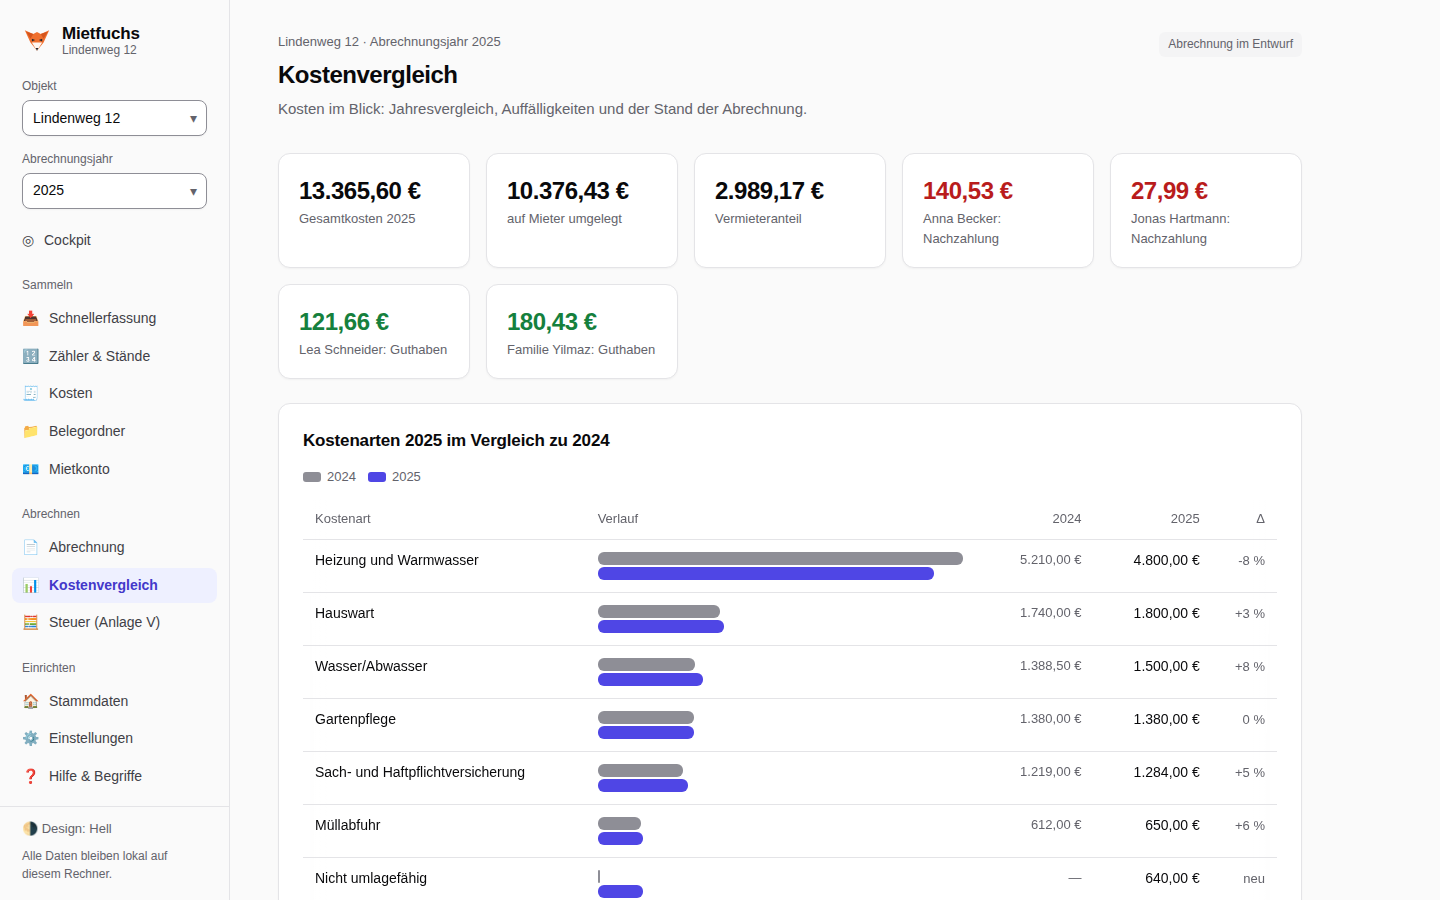
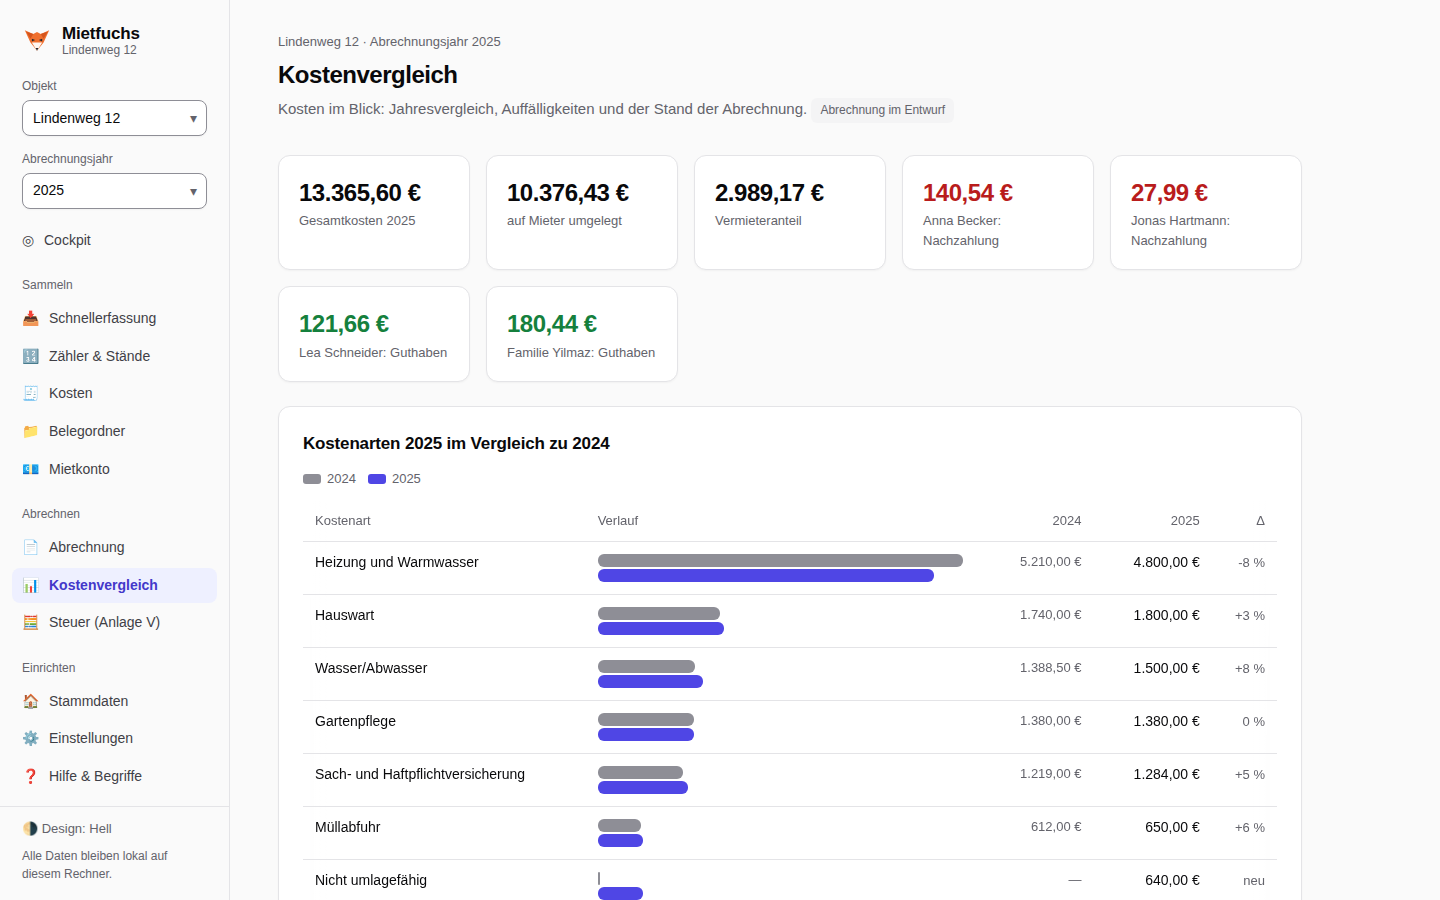
Schritt 8, Durchsicht: Kontextzeile gedruckt, Fokus bei erzwungenen Farben, Fuß der Seitenleiste scrollt mit (M15)
- S1: Die Kontextzeile wird mitgedruckt (Abrechnung und Steuer drucken ihren Seitenkopf weiter nicht).
- S2: Der Switcher zeigt seinen Fokus auch im Kontrastmodus (Umriss in transparent).
- S3/M15: Der Fuß der Seitenleiste ist nicht mehr angeheftet; bei 1440 x 900 sind Einstellungen und
  Hilfe auch mit langem Objektnamen frei, bei 1280 x 720 nach Scrollen, nie verdeckt.
- K2: Belegordner sagt bei abweichendem Rhythmus, dass nach dem Beginn des Zeitraums geordnet wird.
- K3: Der Posteingang verweist auf die Häkchen. K4: Stand der Abrechnung im Untertitel, gedruckt.
- K5: keine leere Zeile in der Schnellerfassung. K6: App nimmt propertyName. K7: Prüfung am Inhalt der
  Auswahlfelder in pageContext.test.tsx. K9: span statt div im label.

Refs #346
Refs #341

Claude-Session: https://claude.ai/code/session_01CpfxWFMq4CjsoL4V1Tpvqb

diff --git a/client/src/index.css b/client/src/index.css
@@ -139,13 +139,12 @@ body {
 /* ---------- Sidebar ---------- */
 /* Die Leiste steht am Fenster und wächst nicht mit der Seite (#142): Sonst lag ihr Fuß (Design,
    Beenden) auf langen Seiten erst nach langem Scrollen im Bild. Bei kleiner Fensterhöhe scrollt
-   sie selbst; die eigene Scrollleiste ist schmal, damit sie die Leiste nicht zerschneidet. Ein per
-   Tab fokussierter Eintrag rollt nicht unter den stehenden Fuß (gut 90 px hoch). */
+   sie selbst; die eigene Scrollleiste ist schmal, damit sie die Leiste nicht zerschneidet. */
 .sidebar {
   width: 230px; flex-shrink: 0; background: var(--sidebar); color: var(--sidebar-text);
   border-right: 1px solid var(--line); padding: max(var(--space-5), env(safe-area-inset-top)) var(--space-3) var(--space-5) max(var(--space-3), env(safe-area-inset-left));
   display: flex; flex-direction: column; gap: 2px; position: sticky; top: 0; height: 100vh; overflow-y: auto;
-  scrollbar-width: thin; scrollbar-color: var(--control-border) transparent; scroll-padding-bottom: 100px;
+  scrollbar-width: thin; scrollbar-color: var(--control-border) transparent;
 }
 .sidebar .logo {
   display: flex; align-items: center; gap: 10px; color: var(--text); font-weight: var(--weight-strong);
@@ -160,13 +159,11 @@ body {
 }
 .sidebar button:hover { background: var(--hover); color: var(--text); }
 .sidebar button.active, .sidebar button.active:hover { background: var(--accent-soft); color: var(--accent-strong); font-weight: var(--weight-strong); }
-/* Der Fuß bleibt unten in der Leiste stehen (#142): Ist das Fenster niedriger als die Navigation,
-   scrollt nur sie darüber hinweg. Er reicht über das Polster der Leiste bis an ihre Ränder, damit
-   keine Navigation unter ihm durchscheint. */
+/* Der Fuß steht unten in der Leiste (#142) und ist Teil der Scrollfläche (#341 M15): Angeheftet lag er bei 900 px
+   Höhe über „Einstellungen“ und „Hilfe & Begriffe“. Er reicht über das Polster der Leiste bis an ihre Ränder. */
 .sidebar .foot {
   margin: auto calc(-1 * var(--space-3)) calc(-1 * var(--space-5)); padding: var(--space-3) 22px calc(var(--space-4) + env(safe-area-inset-bottom));
-  font-size: var(--text-xs); color: var(--muted); position: sticky; bottom: calc(-1 * var(--space-5));
-  background: var(--sidebar); border-top: 1px solid var(--line);
+  font-size: var(--text-xs); color: var(--muted); background: var(--sidebar); border-top: 1px solid var(--line);
 }
 .sidebar .foot .theme-toggle {
   all: unset; cursor: pointer; display: block; margin-bottom: var(--space-2); color: var(--muted); font-size: var(--text-s);
@@ -463,7 +460,7 @@ dialog.menu-sheet > .sidebar button:not(.sheet-close) { min-height: var(--target
 .page-head-text .sub { margin: 0; }
 .page-head-actions { display: flex; gap: 10px; align-items: center; flex-shrink: 0; }
 /* Das gewählte Objekt über dem Titel, ab zwei Objekten (#157): kleine Marke in Indigo */
-/* Kontextzeile (PageHeader.tsx): Objekt und Zeitraum, nur Anzeige; am Handy nennt sie der angeheftete Kopf (siehe unten) */
+/* Kontextzeile (PageHeader.tsx): Objekt und Zeitraum, nur Anzeige, auch gedruckt; am Bildschirm des Handys nennt sie der angeheftete Kopf (siehe unten) */
 .page-context { margin: 0 0 var(--space-1); color: var(--muted); font-size: var(--text-s); font-weight: var(--weight-medium); overflow-wrap: anywhere; }
 /* Hinweis nach dem Wechsel in ein leeres Objekt (#157) */
 .property-notice { display: flex; flex-direction: column; gap: 10px; margin: 0 0 18px; font-size: var(--text-m); }

diff --git a/client/src/uiRules.test.ts b/client/src/uiRules.test.ts
@@ -536,6 +536,9 @@ test('S22: Navigationseinträge stehen nur in nav.ts', () => {
 // - das Kalenderjahr von Mietkonto und Steuer bei abweichendem Zeitraum, nur über `CalendarYearSelect`;
 // - die Heizperiode (HeatingPeriodSelect), eine Eigenschaft der Heizanlage und keine Wahl des Zeitraums;
 // - die Eigenschaften eines Belegs bzw. einer Position, die unten mit Beschriftung stehen.
+// Grenze: Erkannt wird am Quelltext, also an den üblichen Namen; ein `<select>` mit umbenannten Variablen ginge
+// hier durch. Das fängt pageContext.test.tsx am Verhalten: Dort darf kein Auswahlfeld im Inhalt einer Seite
+// Jahreszahlen, Zeiträume oder Objektnamen anbieten (außer „Kalenderjahr“).
 const SIDEBAR_SWITCHERS: Array<[RegExp, Set<string>]> = [
   [/<(?:PeriodSelect|PeriodSelectView|PropertySwitcher)\b/, new Set(['./App.tsx', './components/PeriodSelect.tsx'])],
   [/<Switcher\b/, new Set(['./components/PeriodSelect.tsx', './property.tsx'])],
@@ -550,6 +553,24 @@ const S18_EXCEPTIONS: Array<[file: string, label: string, reason: string]> = [
   ['./components/CostPeriodFields.tsx', 'value={form.taxYear}', 'Jahr der Zahlung (Steuer) einer Kostenposition im Formular'],
 ]
 const periodSelects = (src: string): string[] => [...src.matchAll(/<select\b[\s\S]*?<\/select>/g)].map((m) => m[0]).filter((s) => PERIOD_OR_PROPERTY.test(s))
+// Durchsicht zu Schritt 8, S2: Im Modus erzwungener Farben (Windows-Kontrast) entfernt der Browser `box-shadow` und
+// setzt die Randfarben; der Fokus des unsichtbaren Auswahlfelds am Text wäre dann nicht zu sehen. Ein Umriss in
+// `transparent` zeichnet der Browser dort in der Systemfarbe.
+test('der Switcher zeigt seinen Fokus auch bei erzwungenen Farben', () => {
+  const block = twCss.match(/@utility switcher \{([\s\S]*?)\n\}/)?.[1] ?? ''
+  const focus = block.match(/:focus-within[^{]*\{([^}]*)\}/)?.[1] ?? ''
+  expect(focus).toMatch(/box-shadow/)
+  expect(focus).toMatch(/outline:\s*2px solid transparent/)
+})
+
+// M15 (#341, Spezifikation Abschnitt 2): Der Fuß der Seitenleiste ist Teil der Scrollfläche. Angeheftet lag er bei
+// 900 px Höhe über „Einstellungen“, und „Hilfe & Begriffe“ war hinter ihm.
+test('M15: der Fuß der Seitenleiste ist nicht angeheftet', () => {
+  const foot = cssRules(css).find((r) => r.selector === '.sidebar .foot')
+  expect(foot, '.sidebar .foot fehlt').toBeDefined()
+  expect(foot?.body).not.toMatch(/position:\s*sticky/)
+})
+
 test('S18: Objekt und Abrechnungszeitraum nur in der Seitenleiste', () => {
   // Probe des Prüfers: die frühere Auswahl im Belegordner und die Jahresauswahl, nicht aber ein anderes Feld
   expect(periodSelects('<select value={a} onChange={(e) => setA(e.target.value)}>{properties.map((p) => <option key={p.id} />)}</select>')).toHaveLength(1)

diff --git a/client/src/pages/Belege.tsx b/client/src/pages/Belege.tsx
@@ -288,7 +288,7 @@ function InboxPlacement({ upload, properties, yearOptions, onSave, children }: {
 export default function Belege({ renderThumb = renderThumbnail, onEvaluate, onContinue, onOpenItem, makeTenantFolder = downloadTenantFolder }: Props) {
   const toast = useToast()
   const confirm = useConfirm()
-  const { year: currentYear, calendarYearOptions } = usePeriod()
+  const { year: currentYear, calendarYearOptions, calendar } = usePeriod()
   const { property, properties } = useProperty()
   const [uploads, setUploads] = useState<UploadEntry[]>([])
   const [loadedItems, setLoadedItems] = useState<CostItem[]>([])
@@ -655,6 +655,10 @@ export default function Belege({ renderThumb = renderThumbnail, onEvaluate, onCo
             />
           </label>
         </div>
+        {/* Durchsicht zu Schritt 8, K2: Der Ordner ordnet nach dem Jahr, in dem der Zeitraum einer Position beginnt
+            (receipts.ts, ebenso Register und Belegabdeckung). Bei einem anderen Rhythmus sagt der Satz das, denn
+            die Kontextzeile nennt den Zeitraum; vor einem Wechsel des Rhythmus können zwei Zeiträume im selben Jahr beginnen. */}
+        {!calendar && !allYears && <p className="muted">Gezeigt sind die Positionen der Abrechnungszeiträume, die {currentYear} beginnen.</p>}
       </div>
 
       <div
@@ -681,7 +685,7 @@ export default function Belege({ renderThumb = renderThumbnail, onEvaluate, onCo
         <p className="muted">
           Belege, die an keiner Kostenposition hängen. Ziehen Sie neue Belege hierher oder laden Sie mehrere auf einmal hoch;
           danach ordnen Sie jeden einer Position zu oder lassen ihn per KI auswerten.
-          {inbox.elsewhere > 0 && ` ${inbox.elsewhere} weitere ${inbox.elsewhere === 1 ? 'ist' : 'sind'} einem anderen Objekt oder Jahr zugedacht.`}
+          {inbox.elsewhere > 0 && ` ${inbox.elsewhere} weitere ${inbox.elsewhere === 1 ? 'ist' : 'sind'} einem anderen Objekt oder Jahr zugedacht; Sie sehen ${inbox.elsewhere === 1 ? 'ihn' : 'sie'} mit ${properties.length > 1 ? '„Belege aller Objekte zeigen“ oder ' : ''}„Belege aller Jahre zeigen“.`}
         </p>
         {inbox.here.length > 0 && <ul className="receipt-list">{inbox.here.map(renderCard)}</ul>}
       </div>

diff --git a/client/src/pageContext.test.tsx b/client/src/pageContext.test.tsx
@@ -75,6 +75,34 @@ test('jede Seite zeigt Objekt und Abrechnungsjahr an und wählt sie nicht noch e
   }
 })
 
+// Durchsicht K7: Erkannt am Inhalt, nicht am Namen der Variablen. Kein Auswahlfeld im Inhalt einer Seite bietet
+// Jahreszahlen, Zeiträume oder die Objekte an, außer dem Kalenderjahr von Mietkonto und Steuer.
+test('kein Auswahlfeld im Inhalt bietet Jahre, Zeiträume oder Objekte an', async () => {
+  properties = [...properties, objekt('objekt-3', 'Haus C')]
+  render(<App />)
+  await screen.findByLabelText('Objekt wählen', {}, SLOW)
+  const names = properties.map((p) => p.name)
+  for (const [nav, heading] of PAGES) {
+    await go(nav, heading)
+    const main = screen.getByRole('main')
+    const offending = within(main).queryAllByRole('combobox').filter((s) => {
+      const texts = [...(s as HTMLSelectElement).options].map((o) => o.text.trim()).filter((t) => t !== '')
+      const yearsOrNames = texts.filter((t) => /^\d{4}(?:\/\d{4})?$/.test(t) || names.includes(t))
+      return yearsOrNames.length >= 2 && s.getAttribute('aria-label') !== 'Kalenderjahr'
+    })
+    expect(offending.map((s) => s.getAttribute('aria-label') ?? s.closest('label')?.textContent), String(nav)).toEqual([])
+  }
+})
+
+// Durchsicht S1: Gedruckt nennt der Seitenkopf weiter, für welches Objekt und welches Jahr die Seite gilt.
+test('die Kontextzeile wird mitgedruckt', async () => {
+  render(<App />)
+  await screen.findByLabelText('Objekt wählen', {}, SLOW)
+  await go(/Kostenvergleich/, /^Kostenvergleich/)
+  const line = screen.getByTestId('page-context')
+  expect(line.closest('.no-print')).toBeNull()
+})
+
 test('ein Wechsel in der Seitenleiste stellt die Seite auf Objekt und Jahr um', async () => {
   render(<App />)
   await screen.findByLabelText('Objekt wählen', {}, SLOW)

diff --git a/client/src/tw.css b/client/src/tw.css
@@ -165,15 +165,16 @@
   display: flex;
   flex-direction: column;
   gap: --spacing(1);
-  & > span {
+  & > span:first-child {
     font-size: var(--text-xs);
     font-weight: var(--weight-medium);
     color: var(--muted);
   }
-  & > div {
+  & > span:last-child {
+    display: block;
     position: relative;
   }
-  & > div > span {
+  & > span:last-child > span {
     display: flex;
     align-items: center;
     box-sizing: border-box;
@@ -191,7 +192,7 @@
     overflow-wrap: break-word;
     hyphens: auto;
   }
-  & > div > span::after {
+  & > span:last-child > span::after {
     content: "▾";
     position: absolute;
     right: --spacing(2.5);
@@ -199,7 +200,7 @@
     transform: translateY(-50%);
     color: var(--muted);
   }
-  & > div > select {
+  & > span:last-child > select {
     position: absolute;
     inset: 0;
     width: 100%;
@@ -208,9 +209,13 @@
     opacity: 0;
     cursor: pointer;
   }
-  & > div:focus-within > span {
+  /* Der Umriss in `transparent` ist sonst unsichtbar; bei erzwungenen Farben (Windows-Kontrast), die `box-shadow`
+     entfernen, zeichnet der Browser ihn in der Systemfarbe (Durchsicht zu Schritt 8, S2). */
+  & > span:last-child:focus-within > span {
     border-color: var(--accent);
     box-shadow: 0 0 0 3px var(--ring);
+    outline: 2px solid transparent;
+    outline-offset: 2px;
   }
 }
 

diff --git a/client/src/components/PageHeader.tsx b/client/src/components/PageHeader.tsx
@@ -8,7 +8,8 @@ import { pageContextLine, type PageContextKind } from '../propertyView'
 //
 // Die Kontextzeile (#346 Schritt 8, M13) nennt Objekt und Abrechnungszeitraum, in denen die Seite steht,
 // „Lindenweg 12 · Abrechnungsjahr 2025“. Sie ist nur Anzeige: Gewählt wird beides in der Seitenleiste bzw. im
-// Menüblatt (Wächter S18). Am Handy steht dieselbe Angabe schon im angehefteten Kopf, dort entfällt sie (index.css).
+// Menüblatt (Wächter S18). Am Handy nennt der angeheftete Kopf Objekt und Zeitraum, dort entfällt sie auf dem
+// Bildschirm (index.css). Gedruckt wird sie, damit das Papier sagt, für welches Objekt und Jahr es gilt.
 // Seit #157 nennt der Seitenkopf das Objekt; vorher sah ein leeres neues Objekt aus wie ein verlorener Bestand.
 export default function PageHeader({
   title,
@@ -28,7 +29,7 @@ export default function PageHeader({
   return (
     <div className="page-head">
       <div className="page-head-text">
-        {line && <p className="page-context no-print" data-testid="page-context">{line}</p>}
+        {line && <p className="page-context" data-testid="page-context">{line}</p>}
         <h1>{title}</h1>
         {subtitle && <p className="sub">{subtitle}</p>}
       </div>

diff --git a/client/src/pages/Uebersicht.tsx b/client/src/pages/Uebersicht.tsx
@@ -79,14 +79,16 @@ export default function Uebersicht({ onNavigate }: Props) {
 
   return (
     <>
-      {/* Der Zeitraum steht in der Kontextzeile und wird in der Seitenleiste gewählt (#346 Schritt 8); hier
-          bleibt nur der Stand der Abrechnung. */}
+      {/* Der Zeitraum steht in der Kontextzeile und wird in der Seitenleiste gewählt (#346 Schritt 8); der Stand der
+          Abrechnung steht im Untertitel, damit er mitgedruckt wird. */}
       <PageHeader
         title="Kostenvergleich"
-        subtitle="Kosten im Blick: Jahresvergleich, Auffälligkeiten und der Stand der Abrechnung."
-        actions={settlement?.closed
-          ? <span className="badge green">Abrechnung abgeschlossen</span>
-          : <span className="badge gray">Abrechnung im Entwurf</span>}
+        subtitle={<>
+          Kosten im Blick: Jahresvergleich, Auffälligkeiten und der Stand der Abrechnung.{' '}
+          {settlement?.closed
+            ? <span className="badge green">Abrechnung abgeschlossen</span>
+            : <span className="badge gray">Abrechnung im Entwurf</span>}
+        </>}
       />
       {error && <div className="error">{error}</div>}
 

diff --git a/client/src/property.test.tsx b/client/src/property.test.tsx
@@ -48,14 +48,14 @@ test('der Umschalter zeigt den ganzen Namen des gewählten Objekts als Text, mit
   const lang = objekt('objekt-3', 'Mehrfamilienhaus Am Alten Bahnhof 12–14, Hinterhaus')
   const onChange = vi.fn()
   const { container, rerender } = render(<PropertySwitcher properties={[A, lang]} value="objekt-3" onChange={onChange} />)
-  const shown = container.querySelector('.switcher > div > span')
+  const shown = container.querySelector('.switcher > span:last-child > span')
   expect(shown?.textContent).toBe(lang.name)
   const select = screen.getByLabelText('Objekt wählen')
   expect(select.getAttribute('title')).toBe(lang.name)
   fireEvent.change(select, { target: { value: 'objekt-1' } })
   expect(onChange).toHaveBeenCalledWith('objekt-1')
   rerender(<PropertySwitcher properties={[A, objekt('objekt-3', '')]} value="objekt-3" onChange={onChange} />)
-  expect(container.querySelector('.switcher > div > span')?.textContent).toBe('Ohne Namen')
+  expect(container.querySelector('.switcher > span:last-child > span')?.textContent).toBe('Ohne Namen')
 })
 
 function Zeige() {

diff --git a/client/src/App.tsx b/client/src/App.tsx
@@ -10,7 +10,7 @@ import FoxLogo from './components/Logo'
 import { UpdateHint, useUpdateStatus } from './components/Update'
 import DatabaseNotice from './components/Database'
 import PropertyNotice from './components/PropertyNotice'
-import { emptyPropertyNotice } from './propertyView'
+import { emptyPropertyNotice, propertyName } from './propertyView'
 import { canQuit, hintVisible } from './update'
 import Cockpit from './pages/Cockpit'
 import Uebersicht from './pages/Uebersicht'
@@ -264,7 +264,7 @@ function Shell() {
     return () => { current = false }
   }, [propertyId, tab])
 
-  const contextLine = [property ? property.name || 'Ohne Namen' : null, periodLabelNow].filter(Boolean).join(' · ')
+  const contextLine = [property ? propertyName(property) : null, periodLabelNow].filter(Boolean).join(' · ')
 
   const clearNoticeFocus = useCallback(() => setFocusNoticeFor(null), [setFocusNoticeFor])
 

diff --git a/client/src/pages/Belege.test.tsx b/client/src/pages/Belege.test.tsx
@@ -141,6 +141,14 @@ test('„aller Jahre“ zeigt auch die Positionen eines früheren Jahres', async
   expect((await screen.findAllByText(/Gartenpflege/)).length).toBeGreaterThan(0)
 })
 
+// Durchsicht zu Schritt 8, K3: Der Posteingang sagt, wo die übrigen Belege zu sehen sind.
+test('Posteingang: Belege eines anderen Objekts verweisen auf die Häkchen', async () => {
+  extraUploads = [{ ...up('9_anderswo.pdf'), propertyId: 'p2', year: YEAR }]
+  renderPage()
+  await screen.findByText('Wasser/Abwasser')
+  expect(screen.getByText(/1 weitere ist einem anderen Objekt oder Jahr zugedacht; Sie sehen ihn mit „Belege aller Objekte zeigen“ oder „Belege aller Jahre zeigen“\./)).toBeTruthy()
+})
+
 test('die Suche nach einem Betrag findet die Position ohne Beleg', async () => {
   renderPage()
   await screen.findByText('Wasser/Abwasser')

diff --git a/client/src/pages/Schnellerfassung.tsx b/client/src/pages/Schnellerfassung.tsx
@@ -335,14 +335,14 @@ export default function Schnellerfassung({ units, settings, onNavigate, handoff,
       {pending && <div className="warn">{pending}</div>}
 
       <div className="card no-print">
-        <div className="row center">
-          <div className="grow" />
-          {totalRecognized > 0 && (
+        {totalRecognized > 0 && (
+          <div className="row center">
+            <div className="grow" />
             <div className="muted align-right">
               {totalRecognized} erkannt — <span className="ampel gruen" /> {tally.gruen} · <span className="ampel gelb" /> {tally.gelb} · <span className="ampel rot" /> {tally.rot}
             </div>
-          )}
-        </div>
+          </div>
+        )}
 
         <div
           className={`dropzone ${dragOver ? 'over' : ''}`}

diff --git a/client/src/components/Switcher.tsx b/client/src/components/Switcher.tsx
@@ -22,12 +22,12 @@ export default function Switcher({ label, ariaLabel, value, options, onChange, c
   return (
     <label className={`switcher no-print${className ? ` ${className}` : ''}`}>
       <span>{label}</span>
-      <div>
+      <span>
         <span aria-hidden="true">{current?.label ?? ''}</span>
         <select aria-label={ariaLabel ?? label} title={current?.label} value={value} onChange={(e) => onChange(e.target.value)}>
           {options.map((o) => <option key={o.value} value={o.value}>{o.label}</option>)}
         </select>
-      </div>
+      </span>
     </label>
   )
 }
